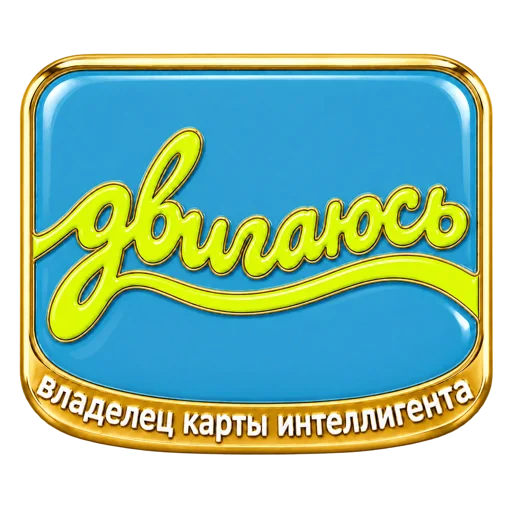
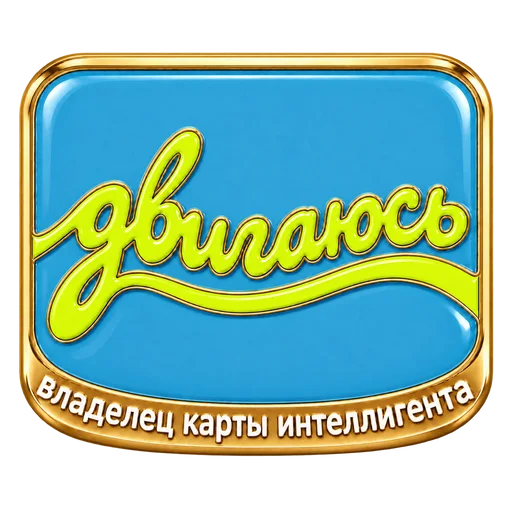
Новое золото у 10 значков, значок «год с клубом»

diff --git a/js/achievements-catalog.js b/js/achievements-catalog.js
@@ -35,6 +35,7 @@ export const ACHIEVEMENT_CATALOG = [
     { id: "hikes-5", title: "5 хайков", rarity: 'common', tier: 'common', description: "пять раз выходили вместе – это уже привычка" },
     { id: "hikes-10", title: "10 хайков", rarity: 'common', tier: 'common', description: "десять вершин с клубом" },
     { id: "hikes-20", title: "20 хайков", rarity: 'legendary', tier: 'rare', description: "двадцать хайков с клубом – тропа стала своей" },
+    { id: "one-year", title: "год с клубом", rarity: 'legendary', tier: 'rare', description: "первый хайк с клубом и новый – спустя год. мы рядом уже целый год" },
     { id: "hikes-30", title: "30 хайков", rarity: 'legendary', tier: 'rare', description: "тридцать вершин – ты один из тех, на ком держится клуб" },
     { id: "hikes-50", title: "50 хайков", rarity: 'mythical', tier: 'very', description: "полсотни хайков – легенда клуба" },
     { id: "route-krestovaya", title: "хайк на Крестовую гору", rarity: 'common', tier: 'common', description: "Алупка сверху, Исар под ногами" },
@@ -67,8 +68,8 @@ export const ACHIEVEMENT_CATEGORIES = [
         ids: id => id.startsWith('route-') || id === 'all-routes' },
     { key: 'moments', title: 'моменты на хайке', hint: 'дождь, фонарики, рассвет и особые моменты',
         ids: id => ['headlamps', 'rain', 'wim-hof', 'above-1500', 'swim', 'four-seasons', 'cheater-prospect'].includes(id) },
-    { key: 'hikes', title: 'хайки с клубом', hint: '5, 10, 20, 30 и 50 хайков с клубом',
-        ids: id => id.startsWith('hikes-') },
+    { key: 'hikes', title: 'хайки с клубом', hint: '5, 10, 20, 30 и 50 хайков с клубом и год с клубом',
+        ids: id => id.startsWith('hikes-') || id === 'one-year' },
     { key: 'first', title: 'первые шаги', hint: 'первый хайк, карта интеллигента, +1, отзыв, бухайкинг и встречи в городе',
         ids: id => ['welcome', 'first-hike', 'card-owner', 'profile', 'mastermind-request', 'idea-to-reality', 'plus-one', 'gift-card', 'honest-review', 'story',
             'after-hike-drinks', 'first-city-event', 'hiking-box'].includes(id) },

diff --git a/js/achievements-medals.js b/js/achievements-medals.js
@@ -51,6 +51,7 @@ export const MEDAL_LIBRARY = [
     { title: '5 хайков', imageUrl: '/assets/achievements/badges/hikes-5-v2.png' },
     { title: '10 хайков', imageUrl: '/assets/achievements/badges/hikes-10-v3.png' },
     { title: '20 хайков', imageUrl: '/assets/achievements/badges/hikes-20-v2.png' },
+    { title: 'год с клубом', imageUrl: '/assets/achievements/badges/one-year-v1.png' },
     { title: '30 хайков', imageUrl: '/assets/achievements/badges/hikes-30-v2.png' },
     { title: '50 хайков', imageUrl: '/assets/achievements/badges/hikes-50-v3.png' },
 ];
@@ -62,7 +63,7 @@ export const medalByUrl = url => MEDAL_LIBRARY.find(m => m.imageUrl === url) || 
 // Лёгкие копии значков (WebP): thumbs – 256 px для сеток и полок, md – 512 px для слайдера.
 // Делаются из PNG скриптом scripts/medal-thumbs.py; если копии нет – картинка сама откатывается на исходный PNG.
 // MEDAL_REV – поднять, когда картинки значков перерисованы (иначе телефоны неделю держат старые из кэша)
-const MEDAL_REV = 2;
+const MEDAL_REV = 3;
 const variant = (url, dir) => typeof url === 'string' && url.startsWith('/assets/achievements/') && url.endsWith('.png')
     ? url.replace('/assets/achievements/', `/assets/achievements/${dir}/`).replace(/\.png$/, `.webp?v=${MEDAL_REV}`) : url;
 export const medalThumb = url => variant(url, 'thumbs');

diff --git a/index.html b/index.html
@@ -69,8 +69,8 @@
         html:not(.app-ready) body > :not(#initial-loader) { visibility: hidden !important; }
     </style>
     <!-- стили не держат первый кадр: их закрывает заставка, а она уходит, только когда стили уже применены -->
-    <link rel="preload" href="style.css?v=202611011011" as="style" onload="this.onload=null;this.rel='stylesheet';window.__cssReady=true">
-    <noscript><link rel="stylesheet" href="style.css?v=202611011011"></noscript>
+    <link rel="preload" href="style.css?v=202611021340" as="style" onload="this.onload=null;this.rel='stylesheet';window.__cssReady=true">
+    <noscript><link rel="stylesheet" href="style.css?v=202611021340"></noscript>
     <!-- modulepreload:start – все модули качаются параллельно, а не цепочкой импортов (важно на медленном интернете) -->
     <link rel="modulepreload" href="js/config.js">
     <link rel="modulepreload" href="js/api.js">
@@ -223,6 +223,6 @@
         </div>
     </div>
 
-    <script type="module" src="js/main.js?v=202611011011-mmedit"></script>
+    <script type="module" src="js/main.js?v=202611021340-gold"></script>
 </body>
 </html>
